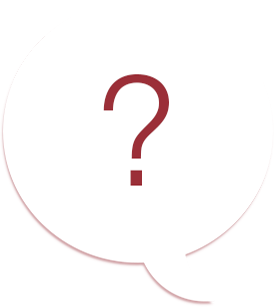
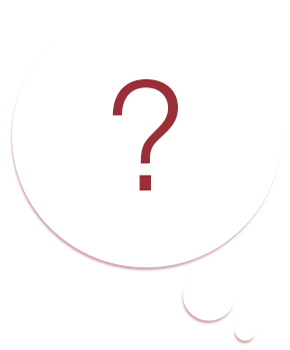
animation poll v0.4

diff --git a/css/main.css b/css/main.css
@@ -22,6 +22,8 @@ pre{width:90%;position:relative;left:-50%;margin-left:55%;font-size:1.5em;line-h
 .main-screen .get-it-btn .shirt{background:url(../img/shirt-btn.png);width:49px;height:49px;margin:17px 30px 0 0;display:inline-block}
 .main-screen .get-it-btn .cta-btn{text-transform:uppercase;color:#fff;font-size:32px;font-weight:300;text-align:right;vertical-align:middle;height:100%;display:inline-block}
 .poll-screen{background:#b0343e}
+.poll-screen .iphone-photo{position:absolute;z-index:10;left:67%;top:8%}
+.poll-screen .iphone-photo .iphone-photo1,.poll-screen .iphone-photo .iphone-photo2{width:260px}
 .poll-screen .bg-poll-photo1{position:absolute;left:-17%;top:33%;width:26%}
 .poll-screen .bg-poll-photo2{position:absolute;left:-17%;width:24%;top:24%}
 .poll-screen .poll-text{margin-top:12%;color:#FFF}

diff --git a/css/scss/partails/poll-screen.scss b/css/scss/partails/poll-screen.scss
@@ -4,6 +4,19 @@ $font: "FuturalPT";
 
   background: rgb(176, 52, 62);
 
+  .iphone-photo {
+    position: absolute;
+    z-index: 10;
+    left: 67%;
+    top:8%;
+    .iphone-photo1 {
+      width: 260px;
+    }
+    .iphone-photo2 {
+      width: 260px;
+    }
+  }
+
   .bg-poll-photo1 {
     position: absolute;
     left: -17%;

diff --git a/index.php b/index.php
@@ -79,13 +79,15 @@
             </div>
         </div>
         <div class="poll-screen section">
-            <div style="position: absolute; z-index: 10">
-                <div class="before_after_slider">
-                    <div class="color">
-                        <img src="img/poll%20in%20phone.png" width="320"  alt="" />
-                    </div>
-                    <div class="black_white">
-                        <img src="img/poll%20in%20phone%202.png" width="320"   alt="black_white" />
+            <div>
+                <div class="iphone-photo">
+                    <div class="before_after_slider">
+                        <div class="color">
+                            <img src="img/iphone-poll1.png" class="iphone-photo1" alt="" />
+                        </div>
+                        <div class="black_white">
+                            <img src="img/iphone-poll2.png" class="iphone-photo2" alt="black_white" />
+                        </div>
                     </div>
                 </div>
             </div>
@@ -145,7 +147,7 @@
             </div>
         </div>
         <div class="explore-screen section">
-            <img class="question" src="img/question1.png">
+            <img class="question" src="img/question.png">
             <div class="container">
                 <div class="row">
                     <div class="col-sm-6 col-sm-offset-1 explore-text">
